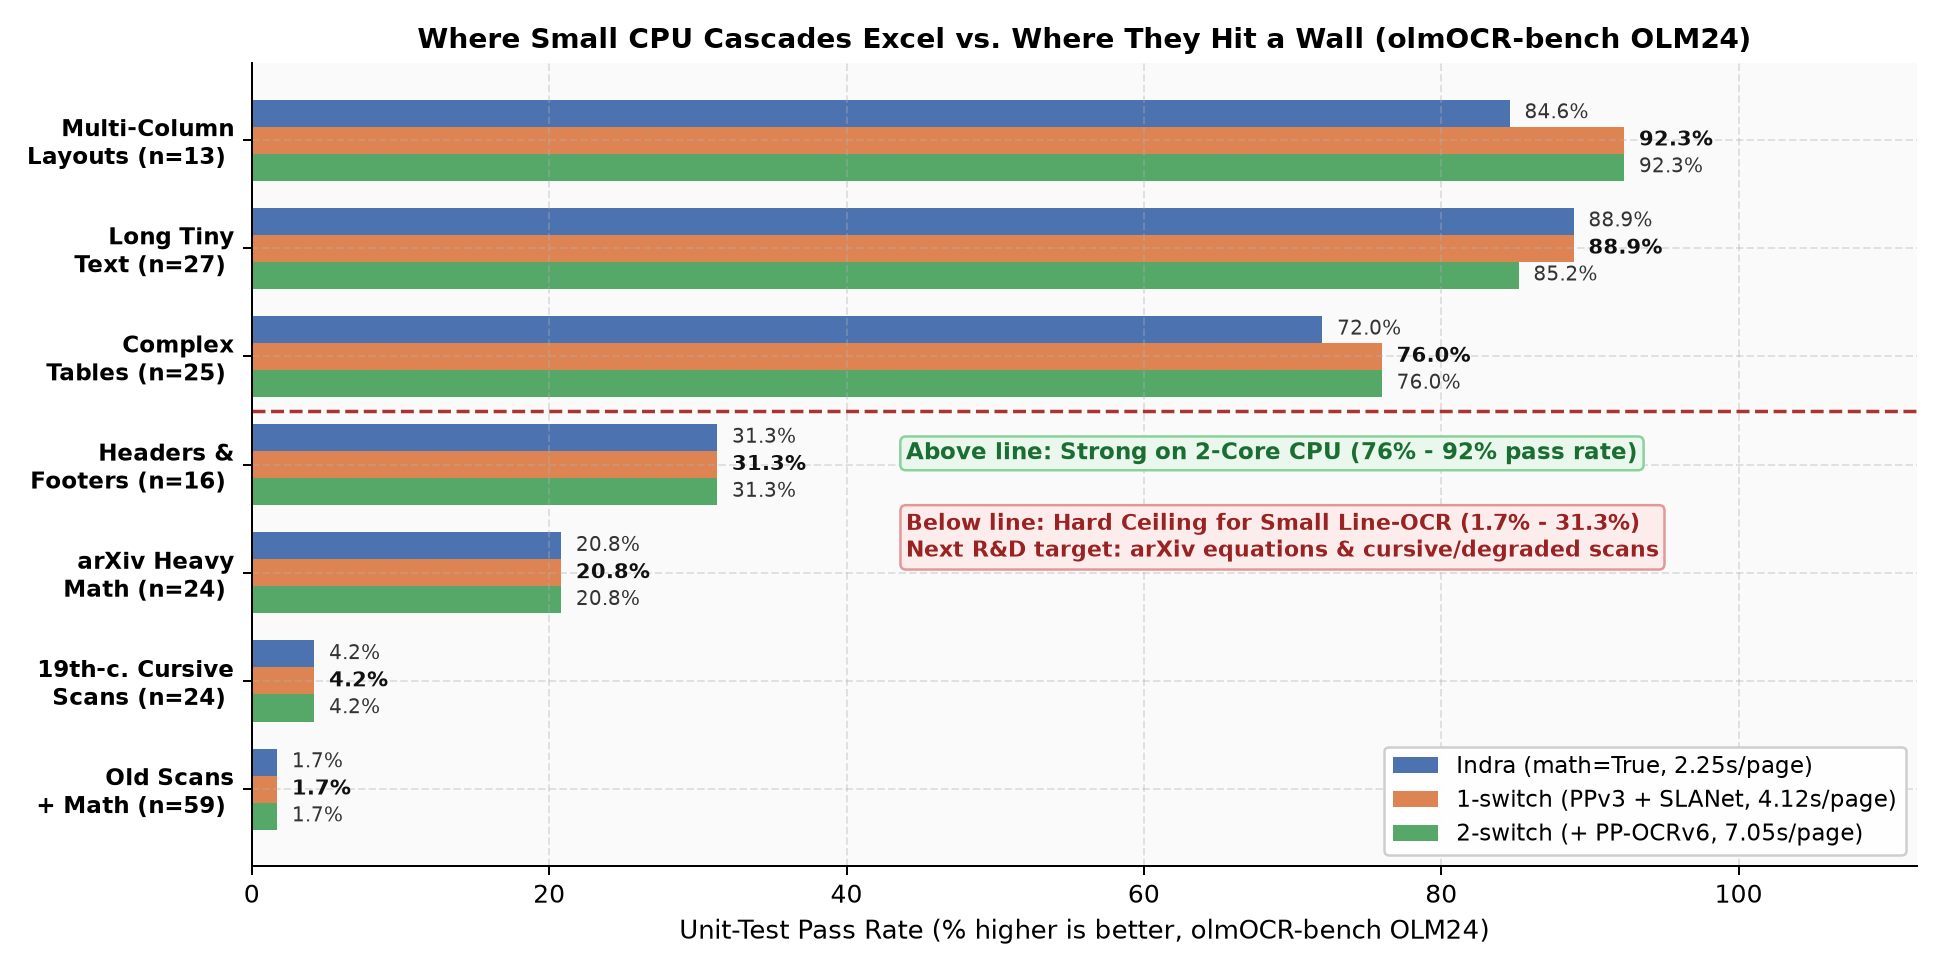
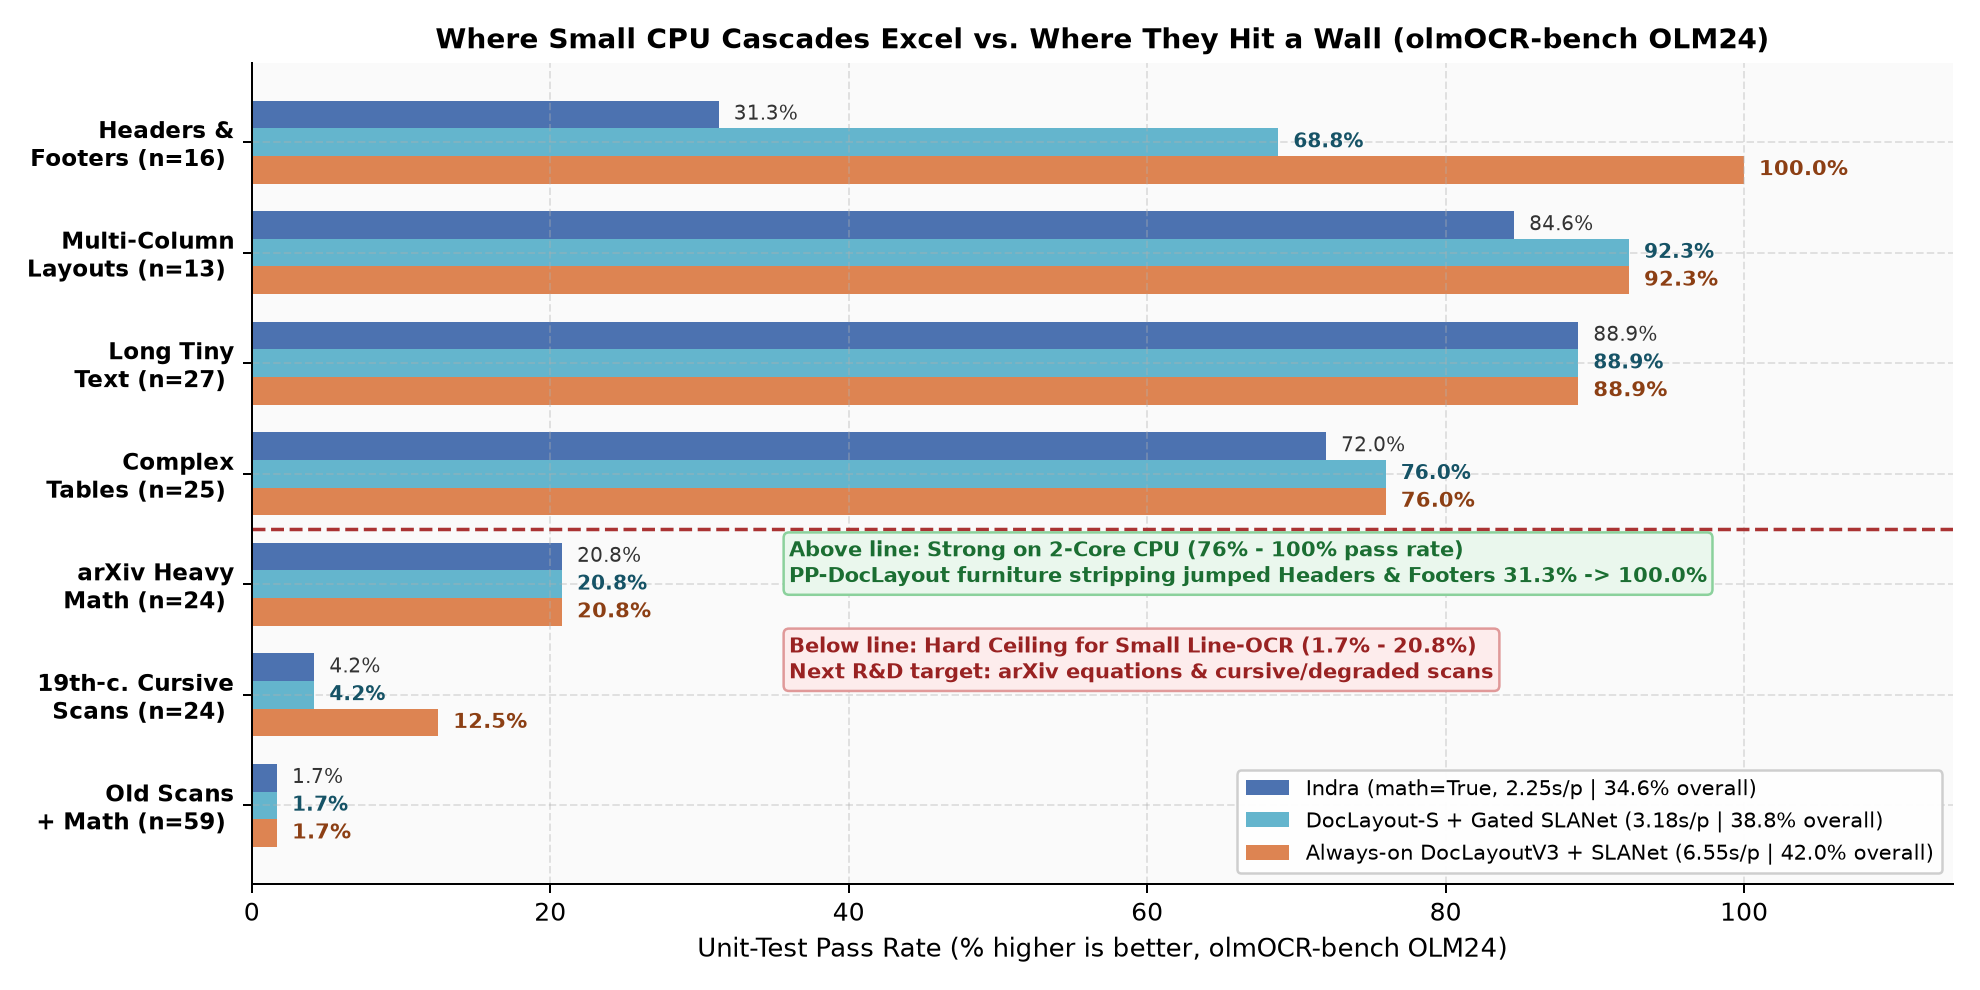
Add PP-DocLayout header/footer/number furniture stripping (31.3% -> 100% headers_footers on OLM24)

Changed region(s): [[0.0, 0.0926, 0.9877, 0.9877], [0.216, 0.0309, 0.8951, 0.0617]]

diff --git a/src/toaster_ocr/ppv3_layout.py b/src/toaster_ocr/ppv3_layout.py
@@ -70,8 +70,17 @@ def _atoms(page):
     return atoms
 
 
-def regroup(native: dict[str, Any], regions: list[dict[str, Any]], mode: str = "tables_only", min_ioa: float = 0.5):
-    """Regroup native Indra cell atoms into PP-DocLayoutV3 table regions without dropping text."""
+FURNITURE_LABELS = frozenset({"header", "footer", "header_image", "footer_image", "number"})
+
+
+def regroup(
+    native: dict[str, Any],
+    regions: list[dict[str, Any]],
+    mode: str = "tables_only",
+    min_ioa: float = 0.5,
+    strip_furniture: bool = True,
+):
+    """Regroup native Indra cell atoms into PP-DocLayoutV3 table regions and optionally strip page furniture."""
     if mode not in ("tables_only", "layout_first", "native_geometry"):
         raise ValueError("mode must be tables_only, layout_first, or native_geometry")
     page = copy.deepcopy(native)
@@ -80,6 +89,7 @@ def regroup(native: dict[str, Any], regions: list[dict[str, Any]], mode: str = "
         "fallback": None,
         "table_regions": 0,
         "reconstructed_tables": 0,
+        "stripped_furniture_atoms": 0,
     }
     try:
         try:
@@ -159,21 +169,39 @@ def regroup(native: dict[str, Any], regions: list[dict[str, Any]], mode: str = "
             }
             rendered.append((region.get("order_seq", 10**9), ri, p))
         diagnostics["reconstructed_tables"] = len(rendered)
-        if not rendered and mode == "tables_only":
+
+        furniture_keys: set[str] = set()
+        if strip_furniture:
+            fboxes = [b for _, r, b in regs if r.get("raw_label") in FURNITURE_LABELS]
+            if fboxes:
+                for pi, part in enumerate(source_parts):
+                    if part.get("label") == "Table":
+                        continue
+                    for a in atoms:
+                        if a["part_index"] != pi or a["key"] in consumed:
+                            continue
+                        bx = a["box"]
+                        cx, cy = 0.5 * (bx[0] + bx[2]), 0.5 * (bx[1] + bx[3])
+                        if any(fx0 <= cx <= fx1 and fy0 <= cy <= fy1 for fx0, fy0, fx1, fy1 in fboxes):
+                            furniture_keys.add(a["key"])
+        diagnostics["stripped_furniture_atoms"] = len(furniture_keys)
+
+        if not rendered and not furniture_keys and mode == "tables_only":
             diagnostics["fallback"] = "no_table_atoms_assigned"
             return page, diagnostics
 
+        removed = consumed | furniture_keys
         rebuilt = []
         for pi, part in enumerate(source_parts):
             part_atoms = [a for a in atoms if a["part_index"] == pi]
-            taken = [a for a in part_atoms if a["key"] in consumed]
+            taken = [a for a in part_atoms if a["key"] in removed]
             if not taken:
                 untouched = copy.deepcopy(part)
                 for a in part_atoms:
                     untouched["cells"][a["cell_index"]]["source_atom_key"] = a["key"]
                 rebuilt.append(((pi, 0, 0), untouched))
                 continue
-            remaining = [a for a in part_atoms if a["key"] not in consumed]
+            remaining = [a for a in part_atoms if a["key"] not in removed]
             if remaining:
                 residual = copy.deepcopy(part)
                 residual["cells"] = []

diff --git a/tests/test_regroup_and_repair.py b/tests/test_regroup_and_repair.py
@@ -45,6 +45,35 @@ class TestRegroupAndRepair(unittest.TestCase):
         self.assertIn("ColB", out["markdown"])
         self.assertIn("Header note", out["markdown"])
 
+    def test_regroup_strips_furniture_when_enabled(self):
+        native = {
+            "width": 1000,
+            "height": 1000,
+            "parts": [
+                {
+                    "id": "p0",
+                    "label": "Text",
+                    "bbox": [50, 20, 400, 230],
+                    "markdown": "Running Header\nBody text stays",
+                    "line_ids": [1, 2],
+                    "lines": [
+                        {"id": 1, "text": "Running Header", "box": [50, 20, 400, 40]},
+                        {"id": 2, "text": "Body text stays", "box": [50, 200, 400, 230]},
+                    ],
+                    "cells": [
+                        {"id": "c0", "line_id": 1, "text": "Running Header", "box": [50, 20, 400, 40]},
+                        {"id": "c1", "line_id": 2, "text": "Body text stays", "box": [50, 200, 400, 230]},
+                    ],
+                },
+            ],
+            "markdown": "Running Header\nBody text stays",
+        }
+        regions = [{"box_xyxy": [40.0, 10.0, 450.0, 50.0], "score": 0.9, "label_id": 13, "raw_label": "header", "order_seq": 0}]
+        reg, diag = regroup(native, regions, mode="tables_only", strip_furniture=True)
+        self.assertEqual(diag["stripped_furniture_atoms"], 1)
+        self.assertNotIn("Running Header", reg["markdown"])
+        self.assertIn("Body text stays", reg["markdown"])
+
     def test_padding_and_nearest_missing_and_sparse_gate(self):
         frags = [
             {"text": "A", "bbox": [10, 10, 40, 30]},

diff --git a/src/toaster_ocr/cli.py b/src/toaster_ocr/cli.py
@@ -25,7 +25,8 @@ def main(argv: list[str] | None = None) -> int:
     rn.add_argument("--layout-model", choices=LAYOUT_MODELS, default="v3", help="Table detector: v3 (33.3M), l (30.9M), m (5.7M), or s (1.2M)")
     rn.add_argument("--no-math", action="store_true", help="Disable Indra LaTeX math reader")
     rn.add_argument("--ppv6-threshold", type=float, default=None, help="Confidence threshold (default 0.96, 1.0=all lines)")
-    rn.add_argument("--always-layout", action="store_true", help="Run PP-DocLayoutV3+SLANet even if Indra sees no Table")
+    rn.add_argument("--always-layout", action="store_true", help="Run PP-DocLayout+SLANet even if Indra sees no Table")
+    rn.add_argument("--keep-furniture", action="store_true", help="Keep page headers, footers, and page numbers detected by PP-DocLayout")
     rn.add_argument("--threads", type=int, default=2)
     rn.add_argument("--json", action="store_true", help="Emit full JSON with timings")
 
@@ -49,6 +50,7 @@ def main(argv: list[str] | None = None) -> int:
                 math=not args.no_math,
                 ppv6_threshold=args.ppv6_threshold,
                 table_gate=(False if args.always_layout else None),
+                keep_furniture=args.keep_furniture,
             )
         finally:
             ocr.close()

diff --git a/src/toaster_ocr/pipeline.py b/src/toaster_ocr/pipeline.py
@@ -142,6 +142,7 @@ class ToasterOCR:
         math: bool = True,
         ppv6_threshold: float | None = None,
         table_gate: bool | None = None,
+        keep_furniture: bool = False,
     ) -> dict[str, Any]:
         if mode not in MODES:
             raise ValueError(f"Unknown mode {mode!r}; expected one of {MODES}")
@@ -179,7 +180,12 @@ class ToasterOCR:
 
             ppv3 = self._detect_ppv3(native["image_path"], native["width"], native["height"])
             t_regroup = time.monotonic()
-            regrouped, diag = regroup(native, ppv3["regions"], mode="tables_only")
+            regrouped, diag = regroup(
+                native,
+                ppv3["regions"],
+                mode="tables_only",
+                strip_furniture=not keep_furniture,
+            )
             regroup_s = time.monotonic() - t_regroup
             has_tables = any(p.get("label") == "Table" for p in regrouped.get("parts", []))
             if has_tables:

diff --git a/README.md b/README.md
@@ -46,16 +46,19 @@ Measured on CPUs `0,1` (`taskset -c 0,1 nice -n 10`, 2 intra-op threads, serial 
 
 ## 2. Where Small CPU Cascades Excel vs. Where They Hit a Wall (`olmOCR-bench OLM24`)
 
-On modern digital/printed PDFs (`multi_column`, `long_tiny_text`, `table_tests`), the 2-core CPU cascade achieves **`76.0%–92.3%` pass rates**. On 19th-century cursive handwriting (`old_scans` `4.2%`, `old_scans_math` `1.7%`) and heavy arXiv equations (`arxiv_math` `20.8%`), small line-OCR + `MathReader` hit a hard ceiling — making difficult arXiv math and degraded scans our next R&D target:
+In addition to table boxes, `PP-DocLayout` detects `header`, `footer`, `header_image`, `footer_image`, and `number` (page-number) boxes. Stripping non-table lines inside those furniture regions (enabled by default; disable with `--keep-furniture`) lifts **`headers_footers` from `31.3%` (`5/16`) to `68.8%` (`11/16`) with `DocLayout-S` (`3.18 s/page`) and `100.0%` (`16/16`) with `Always-on + DocLayoutV3` (`6.55 s/page`)**, bringing all four modern printed PDF categories to **`76.0%–100.0%` pass rates**.
+
+Meanwhile, on 19th-century cursive handwriting (`old_scans` `12.5%`, `old_scans_math` `1.7%`) and heavy arXiv equations (`arxiv_math` `20.8%`), small line-OCR + `MathReader` hit a hard ceiling — making difficult arXiv math and degraded scans our next R&D target:
 
 ![Where small CPU cascades excel vs where they hit a wall on olmOCR-bench OLM24](benchmarks/olmocr_categories.png)
 
-| Option | Layout run on | Mean / page (median) | Overall pass rate (higher is better) | `long_tiny_text` | `multi_column` | `table_tests` | `headers_footers` | `arxiv_math` | `old_scans` | `old_scans_math` |
+| Option | Detector run on | Mean / page (median) | Overall pass rate (higher is better) | `headers_footers` | `multi_column` | `long_tiny_text` | `table_tests` | `arxiv_math` | `old_scans` | `old_scans_math` |
 |---|---:|---:|---:|---:|---:|---:|---:|---:|---:|---:|
-| **`indra`** (`math=True`) | `0%` | **2.25 s** (`1.70 s`) | `34.57%` (`65/188`) | `88.9%` | `84.6%` | `72.0%` | `31.3%` | `20.8%` | `4.2%` | `1.7%` |
-| **`1-switch + DocLayoutV3`** | **37.5%** | **4.12 s** (**`3.31 s`**) | **`35.64%`** (`67/188`) | `88.9%` | **`92.3%`** | **`76.0%`** | `31.3%` | `20.8%` | `4.2%` | `1.7%` |
-| **`Always-on + DocLayoutV3`** | `100%` | **6.68 s** (`5.95 s`) | **`35.64%`** (`67/188`) | `88.9%` | **`92.3%`** | **`76.0%`** | `31.3%` | `20.8%` | `4.2%` | `1.7%` |
-| **`2-switch (V3 + PP-OCRv6)`** | **37.5%** | **7.05 s** (`5.85 s`) | `35.11%` (`66/188`) | `85.2%` | **`92.3%`** | **`76.0%`** | `31.3%` | `20.8%` | `4.2%` | `1.7%` |
+| **`indra`** (`math=True`) | `0%` | **2.25 s** (`1.70 s`) | `34.57%` (`65/188`) | `31.3%` | `84.6%` | `88.9%` | `72.0%` | `20.8%` | `4.2%` | `1.7%` |
+| **`1-switch + DocLayout-S`** | **37.5%** | **2.66 s** (**`2.03 s`**) | `35.64%` (`67/188`) | `31.3%` | **`92.3%`** | `88.9%` | **`76.0%`** | `20.8%` | `4.2%` | `1.7%` |
+| **`DocLayout-S + Gated SLANet`** | `100%` | **3.18 s** (**`2.59 s`**) | **`38.83%`** (`73/188`) | **`68.8%`** | **`92.3%`** | `88.9%` | **`76.0%`** | `20.8%` | `4.2%` | `1.7%` |
+| **`1-switch + DocLayoutV3`** | **37.5%** | **4.00 s** (**`3.31 s`**) | **`38.83%`** (`73/188`) | **`68.8%`** | **`92.3%`** | `88.9%` | **`76.0%`** | `20.8%` | `4.2%` | `1.7%` |
+| **`Always-on + DocLayoutV3`** | `100%` | **6.55 s** (`6.05 s`) | **`42.02%`** (`79/188`) | **`100.0%`** | **`92.3%`** | `88.9%` | **`76.0%`** | `20.8%` | **`12.5%`** | `1.7%` |
 
 ---
 
